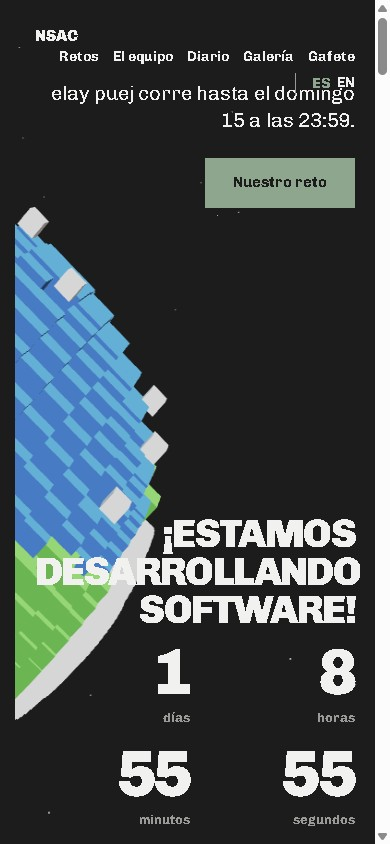
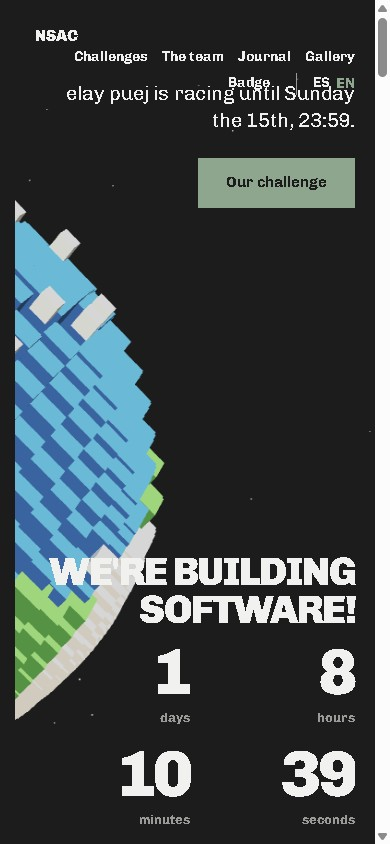
gafete: avisos del evento (comunidad/opcional/marca) + posts del día
Generated with [Devin](https://devin.ai)

diff --git a/es/gafete/index.html b/es/gafete/index.html
@@ -43,6 +43,13 @@ description: "Genera una hoja carta o A4 con tu gafete de dos caras: sube una o 
 
   <p class="tool__note">Cada cara sale a 4 × 5 pulgadas (unos 10 × 13 cm), tamaño estándar de gafete de evento que entra en la mayoría de los portacredenciales. Carta y A4 salen a tamaño real en los dos formatos; imprime al 100 %, sin «ajustar a la página»: recorta el contorno con la hoja entera, dobla por la línea punteada y sujeta por el borde doblado. Las dos caras comparten el mismo punto de agarre.</p>
   <p class="tool__note">La herramienta corre completa en tu navegador: las imágenes no salen de tu equipo, no se suben a ningún servidor y nada de lo que hagas queda registrado. Es una herramienta universal — 4 × 5 pulgadas es el tamaño estándar de credencial de evento — así que sirve para este hackathon o para cualquier otro.</p>
+
+  <p class="tool__h">Conviene saber</p>
+  <ul class="tool__list">
+    <li>Es una herramienta hecha por la comunidad, no oficial de Space Apps, y totalmente opcional: nadie necesita un gafete para participar ni para entregar su proyecto. La armé por diversión, para tener algo extra que portar durante el hackathon; el formato es universal, así que cualquiera puede usarla aquí o en cualquier otro evento.</li>
+    <li>El Universal Event es del todo virtual, sin reuniones ni presentaciones (<a href="https://github.com/nasa/spaceapps/discussions/1809">#1809</a>, <a href="https://github.com/nasa/spaceapps/discussions/1834">#1834</a>), así que ahí el gafete es solo por gusto. Si tu evento es local, las reglas de check-in y credenciales las pone tu Local Lead.</li>
+    <li>Si tu diseño usa el logo de Space Apps, revisa la guía de marca en <a href="https://spaceappschallenge.org/brand">spaceappschallenge.org/brand</a> (<a href="https://github.com/nasa/spaceapps/discussions/1858">#1858</a>). Y ojo con el material de la NASA: la guía del GO Team pide que el contenido generado no use ni altere logos, banderas ni identificadores de misión de la NASA (<a href="https://github.com/nasa/spaceapps/discussions/1849">#1849</a>, <a href="https://github.com/nasa/spaceapps/discussions/2123">#2123</a>); mejor dejarlos fuera del arte del gafete.</li>
+  </ul>
 </div>
 
 <script src="{{ '/assets/js/gafete.js' | relative_url }}" defer></script>

diff --git a/gafete/index.html b/gafete/index.html
@@ -43,6 +43,13 @@ description: "Generate a Letter or A4 sheet with your two-sided badge: upload on
 
   <p class="tool__note">Each side comes out at 4 × 5 inches (about 10 × 13 cm), a standard event-badge size that fits most badge holders. Letter and A4 both come out at real size; print at 100 %, with no "fit to page": cut the outline with the whole sheet, fold along the dashed line and clip it by the folded edge. Both sides share the same clip point.</p>
   <p class="tool__note">The tool runs entirely in your browser: images never leave your device, nothing is uploaded to any server and nothing you make gets registered. It's a universal tool — 4 × 5 inches is the standard event-credential size — so it works for this hackathon or any other.</p>
+
+  <p class="tool__h">Good to know</p>
+  <ul class="tool__list">
+    <li>This is a community-made tool, not an official Space Apps one, and completely optional: nobody needs a badge to take part or to submit a project. I built it for fun, to have something extra to wear during the hackathon; the format is universal, so anyone can use it here or at any other event.</li>
+    <li>The Universal Event is fully virtual, with no meetings or presentations (<a href="https://github.com/nasa/spaceapps/discussions/1809">#1809</a>, <a href="https://github.com/nasa/spaceapps/discussions/1834">#1834</a>), so a badge there is just for fun. For a Local Event, check-in and badge rules come from your Local Lead.</li>
+    <li>If your design uses the Space Apps logo, please follow the brand guidelines at <a href="https://spaceappschallenge.org/brand">spaceappschallenge.org/brand</a> (<a href="https://github.com/nasa/spaceapps/discussions/1858">#1858</a>). And a heads-up on NASA material: the GO Team's guidance is that generated content must not use or alter NASA logos, flags or mission identifiers (<a href="https://github.com/nasa/spaceapps/discussions/1849">#1849</a>, <a href="https://github.com/nasa/spaceapps/discussions/2123">#2123</a>) — better keep those out of badge artwork too.</li>
+  </ul>
 </div>
 
 <script src="{{ '/assets/js/gafete.js' | relative_url }}" defer></script>

diff --git a/assets/css/main.css b/assets/css/main.css
@@ -788,6 +788,17 @@ main, .top, .footer { position: relative; z-index: 1; }
 
 .tool__note { font-size: var(--step-small); color: var(--muted); max-width: 60ch; }
 
+.tool__list {
+  font-size: var(--step-small);
+  color: var(--muted);
+  max-width: 60ch;
+  padding-left: 1.3em;
+  display: flex;
+  flex-direction: column;
+  gap: 8px;
+}
+.tool__h + .tool__list { margin-top: 0; }
+
 @page { size: letter; margin: 0; }
 @media print {
   body.printing > :not(#printSheet) { display: none !important; }

diff --git a/_posts/es/2026-11-14-reglas-gafete-1550.md b/_posts/es/2026-11-14-reglas-gafete-1550.md
@@ -1,0 +1,13 @@
+---
+layout: post
+lang: es
+permalink: /es/diario/reglas-gafete-1550/
+title: "Precisiones sobre el gafete"
+description: "Preguntas de participantes y aclaraciones de un organizador: el generador de gafetes ahora imprime en A4, explica su privacidad y deja claras las reglas del evento."
+---
+
+La herramienta del [gafete]({{ '/es/gafete/' | relative_url }}) movió dos preguntas entre los participantes: si imprime bien en A4 (mucha gente no usa hoja carta) y si las fotos se suben a algún lado. Las dos respuestas ya están en la página misma: ahora hay opción de papel A4 junto a la carta, y una nota explica que todo corre en el navegador — las imágenes no salen del equipo y nada queda registrado.
+
+Después un organizador dejó en el foro las precisiones de rigor, que también quedaron en la página: es una herramienta de la comunidad, no oficial, del todo opcional — nadie necesita un gafete para participar ni para entregar su proyecto. En el Universal Event, que es del todo virtual, el gafete es solo por gusto; en los eventos locales las reglas las pone el Local Lead. Y dos avisos de marca: el logo de Space Apps se usa según la guía de spaceappschallenge.org/brand, y el contenido generado no debe usar ni alterar logos, banderas ni identificadores de misión de la NASA — mejor dejarlos fuera del arte.
+
+Yo la armé por diversión, para tener algo extra que portar estos dos días. Que le sirva a cualquiera, aquí o en el próximo evento, es el bonus.

diff --git a/_posts/2026-11-14-reglas-gafete-1550.md b/_posts/2026-11-14-reglas-gafete-1550.md
@@ -1,0 +1,12 @@
+---
+layout: post
+lang: en
+title: "Badge fine print"
+description: "Questions from participants and clarifications from an organizer: the badge tool now prints on A4, explains its privacy and spells out the event rules."
+---
+
+The [badge tool]({{ '/gafete/' | relative_url }}) raised two questions among participants: whether it prints properly on A4 (many people don't use Letter paper) and whether the photos get uploaded anywhere. Both answers are on the page itself now: there's an A4 paper option next to Letter, and a note explains that everything runs in the browser — images never leave your device and nothing gets registered.
+
+Then an organizer posted the usual clarifications in the forum, and they're on the page too: it's a community-made tool, not official, completely optional — nobody needs a badge to take part or to submit. At the Universal Event, which is fully virtual, a badge is just for fun; at Local Events the Local Lead sets the rules. Plus two brand notes: the Space Apps logo follows the guidelines at spaceappschallenge.org/brand, and generated content must not use or alter NASA logos, flags or mission identifiers — better keep those out of the artwork.
+
+I built it for fun, to have something extra to wear these two days. If it helps anyone else, here or at the next event, that's the bonus.

diff --git a/docs/log/2026-11-14.md b/docs/log/2026-11-14.md
@@ -80,3 +80,21 @@ los árboles (mismo mecanismo, prefijo al revés):
   traducción ES va a `_posts/es/`; `.publicado` lista primero la URL EN.
 - `AGENTS.md`: sección i18n reescrita con la regla permanente — nada
   visible en un solo idioma.
+
+## Precisiones del gafete + posts de la tarde
+
+Un organizador del foro dejó las aclaraciones de rigor sobre el
+generador de gafetes; el usuario pidió reflejarlas en la página:
+
+- `gafete/index.html` y `es/gafete/index.html`: nuevo bloque «Good to
+  know / Conviene saber» — herramienta de la comunidad, no oficial, del
+  todo opcional; hecha por diversión; Universal Event virtual (#1809,
+  #1834) así que ahí es solo por gusto y en eventos locales manda el
+  Local Lead; logo Space Apps según spaceappschallenge.org/brand
+  (#1858); contenido generado sin logos, banderas ni identificadores de
+  misión NASA (#1849, #2123). Nueva clase `.tool__list` en main.css.
+- Dos posts nuevos, cada uno en par ES/EN: `dos-idiomas-1530` (la
+  internacionalización y EN por defecto) y `reglas-gafete-1550`
+  (preguntas de participantes + precisiones del organizador).
+- `og-cover.jpg` regenerado desde producción: hero EN 390×844 con la
+  cuenta «WE'RE BUILDING SOFTWARE!» — ya refleja el idioma por defecto.

diff --git a/_posts/es/2026-11-14-dos-idiomas-1530.md b/_posts/es/2026-11-14-dos-idiomas-1530.md
@@ -1,0 +1,13 @@
+---
+layout: post
+lang: es
+permalink: /es/diario/dos-idiomas-1530/
+title: "El sitio, en dos idiomas"
+description: "Como es un evento de la NASA, el sitio ahora arranca en inglés; el castellano sigue ahí, a un clic del suiche de arriba."
+---
+
+El NASA Space Apps es un evento global y la página andaba solo en castellano. Mal plan: la gente de otros equipos que caía por aquí no entendía ni una palabra.
+
+Así que le puse la capa de idiomas encima. Desde hoy el sitio arranca en inglés — es el idioma por defecto — y el castellano se fue a vivir bajo `/es/`, con el suiche ES/EN a la vista en la barra de arriba de todas las páginas. Los posts del diario van en pares: cada uno existe en los dos idiomas y el suiche te lleva al otro lado del mismo post.
+
+Las direcciones viejas de `/en/` (estuvieron vivas un rato) quedaron con un redirect que te manda a la raíz. Y de ahora en adelante, todo texto nuevo sale en los dos idiomas: si algo se muestra en el sitio, su traducción va en el mismo cambio.

diff --git a/_posts/2026-11-14-dos-idiomas-1530.md b/_posts/2026-11-14-dos-idiomas-1530.md
@@ -1,0 +1,12 @@
+---
+layout: post
+lang: en
+title: "The site, in two languages"
+description: "Since this is a NASA event, the site now defaults to English; Spanish is still around, one click away on the switcher up top."
+---
+
+NASA Space Apps is a global event and the site only spoke Spanish. Bad plan: people from other teams who dropped by couldn't read a word of it.
+
+So I gave it a language layer. Starting today the site defaults to English, and Spanish moved under `/es/`, with an ES/EN switcher visible in the top bar of every page. Journal posts come in pairs: each one exists in both languages and the switcher takes you to the same post on the other side.
+
+The old `/en/` addresses (which were live for a while) now redirect to the root. And from now on, every new text ships in both languages: if something shows up on the site, its translation goes out in the same change.
